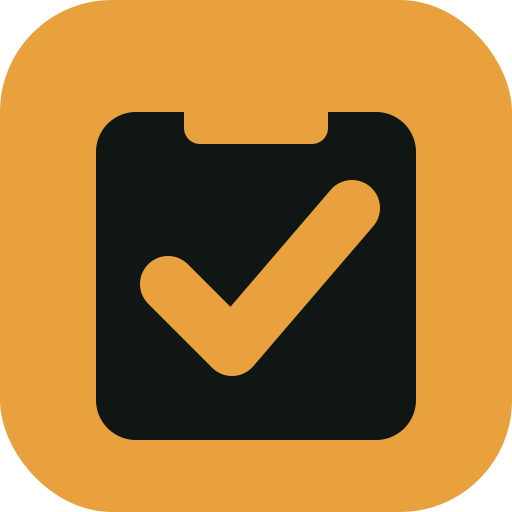
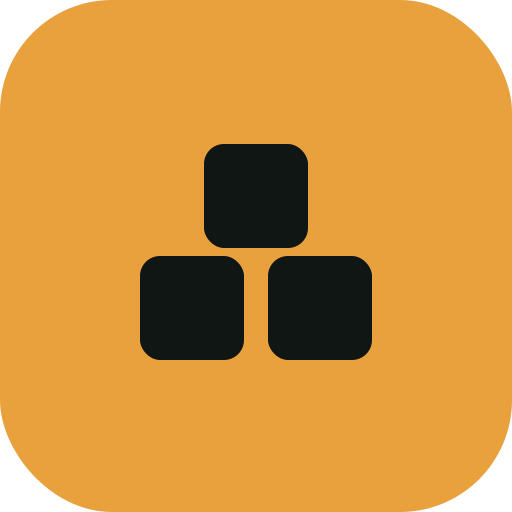
Add files via upload

Changed region(s): [[0.1875, 0.2188, 0.8125, 0.875]]

diff --git a/README.md b/README.md
@@ -1077,3 +1077,16 @@ No app stores involved: staff install straight from the browser.
 iPhone users must use Safari (iOS only allows PWA install from
 Safari); Android is more forgiving. Updates are instant on next load
 after a Netlify deploy — no review, no fees.
+
+
+## New app icon (inventory boxes)
+
+Replaced the clipboard-and-check icon with three dark boxes stacked in
+a pyramid on the amber tile — reads clearly as stacked inventory at
+any size, from a 16px browser tab to a home-screen tile. Regenerated
+all referenced files from one design (icon.svg, icon-192, icon-512,
+apple-touch-icon 180, maskable 512, maskable svg) via cairosvg. The
+maskable version is full-bleed (no rounded corners) so Android can
+crop it to any shape; the regular one keeps the rounded tile for
+browser tabs. No code change — the manifest and HTML already point at
+these filenames.
